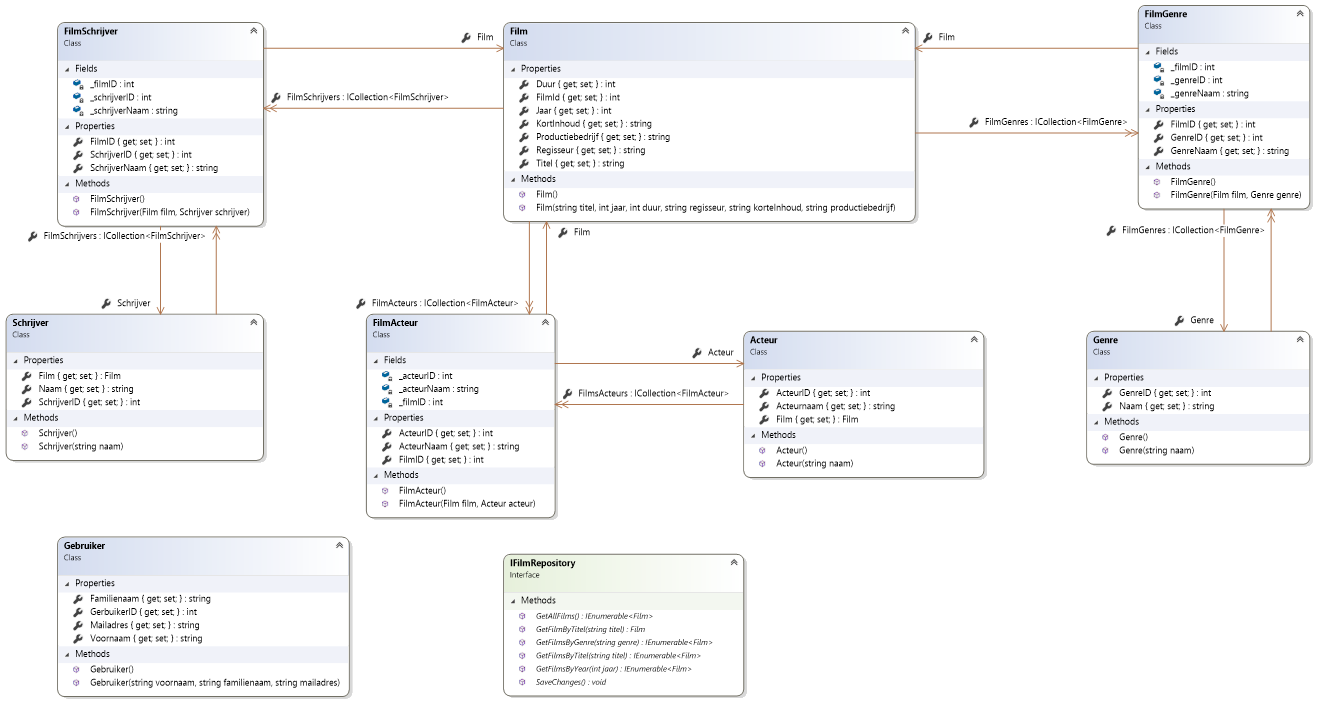
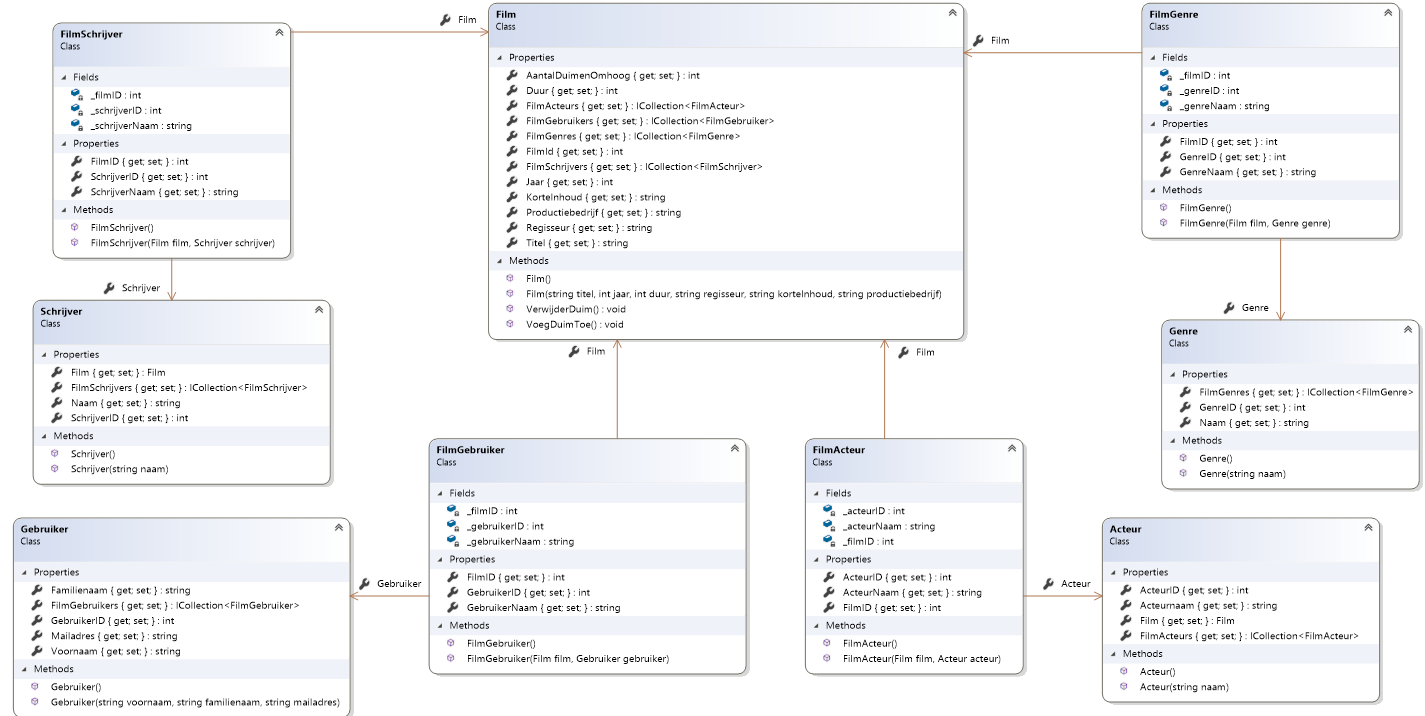
README.md aangevuld met screenshots van API Swagger

diff --git a/README.md b/README.md
@@ -2,10 +2,13 @@
 
 # screenshots van de API
 Film API Swagger
-![Alt text](Screenshots/FilmApISwagger.png)
+![Alt text](Screenshots/Film_API_Swagger.png)
 
-GET api/Films/GetFilms
+GET api/Films
 ![Alt text](Screenshots/GETAlleFilms.png)
+
+GET api/Films/GetGenres
+![Alt text](Screenshots/GETGenres.png)
 
 GET api/Films/GetFilmsByTitel/{titel}
 ![Alt text](Screenshots/GETFilmsByTitel.png)
@@ -16,16 +19,28 @@ GET api/Films/GetFilmsByJaar/{jaar}
 GET api/Films/GetFilmsByGenre/{genre}
 ![Alt text](Screenshots/GETFilmsByGenre.png)
 
+POST api/Gebruiker
+![Alt text](Screenshots/POST_InloggenGebruiker.png)
+
+POST api/Gebruiker/registreer
+![Alt text](Screenshots/POST_RegistrerenGebruiker.png)
+
+PUT api/Gebruiker/VoegDuimToe/{filmtitel}
+![Alt text](Screenshots/PUT_VoegDuimToe.png)
+
+PUT api/Gebruiker/VerwijderDuim/{filmtitel}
+![Alt text](Screenshots/PUT_VerwijderDuim.png)
+
 # screenshots Klassendiagram
-![Alt text](Screenshots/klassendiagram.png)
-![Alt text](Screenshots/controllerklassediagram.png)
+![Alt text](Screenshots/Klassendiagram.png)
+![Alt text](Screenshots/Repo_Controller.png)
 
 # de readme
 - [x] Printscreen van de API zoals weergegeven in swagger. Per endpoint een printscreen van de parameters en de responses
 - [x] Printscreen van het klassendiagram van de domeinlaag (toont de klassen met properties en methodes (inclusief de datatypes) en de associaties)
 - [x] Opsomming van de instellingen die nodig zijn om je backend project lokaal te runnen, indien nodig
-- [ ] Voorbereiding feedback moment: \
-      - Ik zou graag willen weten of mijn domeinlaag en mijn controllerklasse goed is, of ik op de goede weg ben\
+- [ ] Voorbereiding feedback moment: 
+      - Ik zou graag willen weten of mijn domeinlaag en mijn controllerklasse goed zijn
       - 
 # Domein laag
 - [x] Het domein bevat minstens 2 geassocieerde klassen
@@ -40,7 +55,7 @@ GET api/Films/GetFilmsByGenre/{genre}
 # Controller
 - [x] Minstens 1 controller met endpoints voor de CRUD operaties
 - [ ] De endpoints zijn gedefinieerd volgens de best practices
-- [ ] Enkel de benodigde data wordt uitgewisseld (DTO’s indien nodig)
+- [x] Enkel de benodigde data wordt uitgewisseld (DTO’s indien nodig)
 
 # Swagger
 - [x] De documentatie is opgesteld
